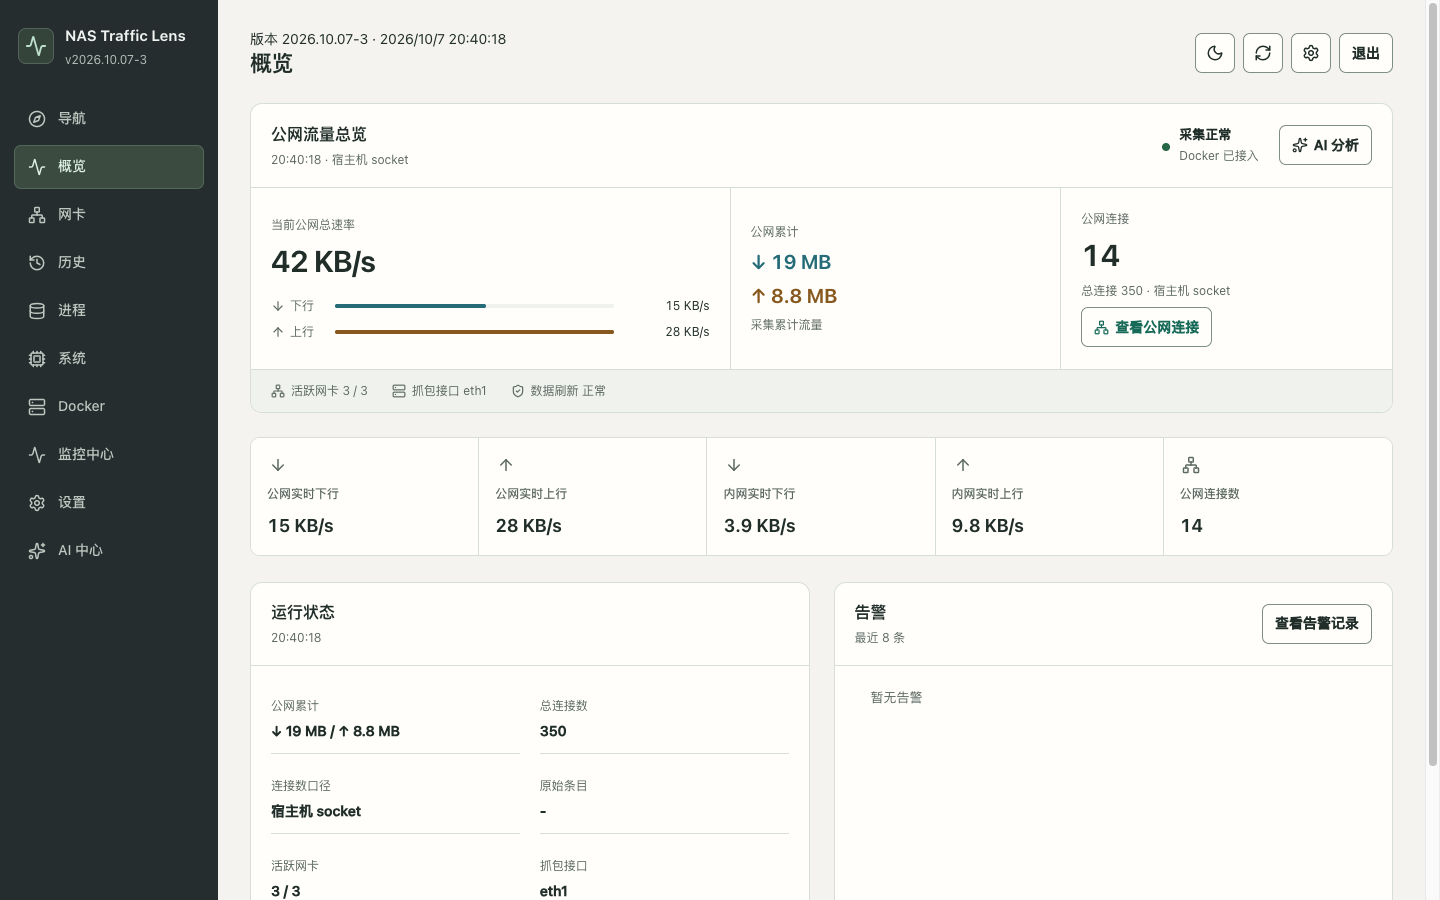
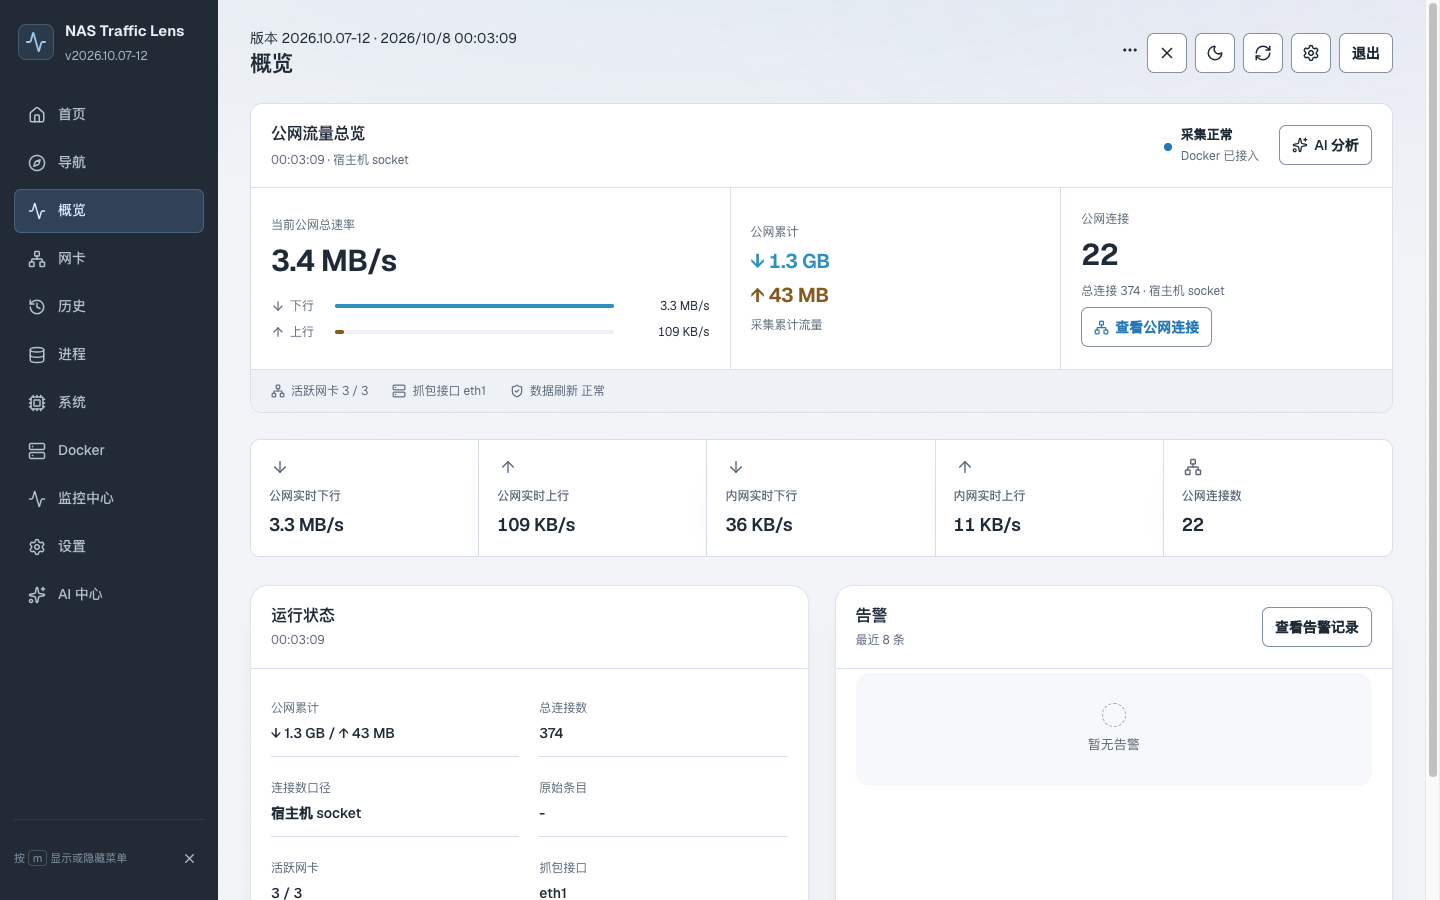
chore(desktop): release 0.5.0 with the new console UI and the ops agent
* 版本三处同步 0.5.0（tauri.conf.json、workspace Cargo.toml、Cargo.lock），
  `cargo metadata --locked` 一致，满足工作流的 tag/版本一致性校验。
* doc/desktop-release-notes.md 换成 0.5.0 说明：运维助手、首页门户与服务直达、
  3D 牌堆卡片、浅蓝配色、ARM 的 GPU/NPU/VPU 适配、设计审计细节，以及配套
  NAS 镜像 2026.10.07-12。
* README 重写开篇与界面预览：新增极空间/绿联双机实测说明、多 NAS 兼容文档链接、
  只读运维助手介绍，并换上新截图（门户、助手、加速器卡片与 VPU 明细、手机端门户）。

diff --git a/README.md b/README.md
@@ -1,8 +1,10 @@
 # NAS Traffic Lens / datatotal
 
-NAS Traffic Lens 是一个面向极空间、家庭 NAS 和 x86/ARM Linux 主机的轻量网络监控面板。它用于补齐 NAS 自带系统缺少的实时公网流量、累计公网流量、进程和端口归因、Docker 容器识别、告警通知等能力。
+NAS Traffic Lens 是一个面向家庭 NAS 的轻量网络监控面板：实时公网流量、进程与 Docker 归因、容器保护与告警通知，并内置一个**只读运维助手**——用一句话就能查"今天公网上传了多少流量""最近哪个进程上传最多""哪个容器在大量读写磁盘"。
 
-Windows / macOS 另有 **Traffic Lens 桌面预览版**：无需 Docker，可查看本机基础资源与网卡总流量、使用本机 AI 分析，也可保存并切换多台 NAS。每台 NAS 可选择客户端布局或网页布局，完整使用其 Docker、AI、监控和系统页面。各端新增服务导航，支持分组、搜索、图标与地址维护，Docker Web 端口可一键加入导航。桌面端支持从 GitHub 检查并安装签名更新。
+已在 **极空间 Z425（x86，i915 核显 + Intel NPU）** 与 **绿联 DXP4300 Plus（ARM，Mali GPU + RKNPU + VPU）** 上实机验证，同一镜像同时提供 `linux/amd64` 与 `linux/arm64`，通用 Linux 与飞牛 OS 使用通用模板即可。各平台的能力差异与部署步骤见 [多 NAS 兼容性说明](doc/nas-compat.md)。
+
+Windows / macOS 另有 **Traffic Lens 0.5.0 桌面预览版**：无需 Docker，可查看本机基础资源与网卡总流量、使用本机 AI 分析，也可保存并切换多台 NAS。每台 NAS 可选择客户端布局或网页布局，完整使用其 Docker、AI、监控和系统页面。各端新增服务导航，支持分组、搜索、图标与地址维护，Docker Web 端口可一键加入导航。桌面端支持从 GitHub 检查并安装签名更新。
 
 桌面版不包含本机公网归属、进程网络流量和传感器采集；完整能力与构建方法见 [桌面客户端使用与构建](doc/desktop-usage.md)。Mac Apple Silicon / Intel 和 Windows x64 安装包见 [桌面 Releases](https://github.com/isle24/datatotal/releases?q=desktop-v)；跨平台签名更新包由 [GitHub Actions](https://github.com/isle24/datatotal/actions/workflows/desktop-release.yml) 编译。NAS 导航需要更新 Docker 镜像，Compose 不需要新增环境变量或挂载。
 
@@ -16,17 +18,37 @@ Windows / macOS 另有 **Traffic Lens 桌面预览版**：无需 Docker，可查
 
 ## 界面预览
 
-2026.10.07 控制台改版：左侧固定导航、设置按功能区独立保存、可搜索的容器勾选列表、明暗主题，手机端改为下拉切换页面。截图取自实际运行 2026.10.07-3 的极空间 NAS。
+截图取自实际运行的极空间 NAS（NAS 镜像 2026.10.07-12）。
 
-| 桌面端 · 概览（浅色） | 桌面端 · 概览（暗色） |
+**首页门户**：居中品牌 + 一行实时状态 + 六个大入口卡片，顶部按钮默认隐藏、鼠标移入才出现；服务导航里的服务直接出现在首页，`/` 或 `⌘K` 搜索后回车直达。
+
+![首页门户](doc/screenshots/console-portal-light.png)
+
+**运维助手（只读 Agent）**：一句话提问，面板展示选用的只读工具、参数、耗时与 token 估算，结果渲染成小卡与排行条，原始 JSON 可折叠查看。
+
+![运维助手](doc/screenshots/console-agent-light.png)
+
+**流量总览**：公网/内网实时速率、累计流量、连接数与 Docker 概况。
+
+| 浅色 | 暗色 |
 | --- | --- |
-| ![桌面端概览浅色](doc/screenshots/console-overview-light.png) | ![桌面端概览暗色](doc/screenshots/console-overview-dark.png) |
-| **设置 · 常用设置**：按功能区保存，未保存修改不丢 | **设置 · 容器保护**：搜索勾选容器，逐个判断阈值 |
+| ![流量总览浅色](doc/screenshots/console-overview-light.png) | ![流量总览暗色](doc/screenshots/console-overview-dark.png) |
+
+**系统与加速器**：CPU/内存/磁盘/温度，以及 GPU、NPU、VPU 的实时利用率（ARM 机型通过 devfreq 与 `/proc/mpp_service` 读取）。
+
+| GPU / NPU / VPU 卡片 | 展开 VPU 的 13 个编解码核心 |
+| --- | --- |
+| ![加速器卡片](doc/screenshots/console-system-accel-light.png) | ![VPU 明细](doc/screenshots/console-system-vpu-light.png) |
+
+**设置**：按功能区独立保存，容器保护支持搜索勾选容器。
+
+| 常用设置 | 容器保护 |
+| --- | --- |
 | ![常用设置](doc/screenshots/console-settings-light.png) | ![容器保护](doc/screenshots/console-protection-picker-light.png) |
 
 手机端（浏览器访问 NAS）：
 
-![手机端概览](doc/screenshots/console-mobile-overview-light.png)
+![手机端门户](doc/screenshots/console-mobile-portal-light.png)
 
 ## 主要功能
 
@@ -42,13 +64,16 @@ Windows / macOS 另有 **Traffic Lens 桌面预览版**：无需 Docker，可查
 - 监控中心展示上传速率、连接数、每日流量等规则的运行状态。
 - 通知渠道模块，支持 Webhook、IYUU、MeoW，并支持消息模板变量。
 - 历史统计折线图，支持今日、本周、本月等时间范围。
-- 系统状态页面，展示 CPU、内存、磁盘、温度风扇，以及 Intel 核显与 NPU 的实时利用率（核显按引擎细分，NPU 含频率和常驻显存）。
+- 系统状态页面，展示 CPU、内存、磁盘、温度风扇与加速器利用率：Intel 机型读 i915 PMU 与 intel_vpu，ARM 机型（绿联云等）读 devfreq 的 Mali GPU / RKNPU 负载与 `/proc/mpp_service/load` 的 13 个 VPU 核心。
+- 首页门户：居中品牌与实时状态、六个入口卡片（含 Docker 容器数）、服务直达卡片与搜索，顶部按钮默认隐藏。
+- 运维助手（只读 Agent）：自然语言 → 计划 → 白名单只读工具 → 结果解读，最多 2 次模型调用；10 个工具覆盖流量概览/历史/进程排行/连接明细、系统状态、容器列表/单容器/容器资源排行、最近告警、配置概况；密钥脱敏、结果裁剪、每次提问写入审计表并统计当日用量。
 - AI 中心支持 OpenAI、Claude、DeepSeek、Kimi、Qwen、MiniMax 和自定义接口的按需分析与对话；首页、历史、监控中心都有快捷分析入口。
 - AI 中心包含“设置助手”：可以用自然语言同时调整运行参数、监控规则、通知模板非敏感字段、容器保护、Docker 备注/内置图标和 AI 偏好；AI 先生成差异预览，点击一次确认后才写入 SQLite。
 - AI 设置助手不会读取或修改密码、API Key、Webhook/IYUU/MeoW Token、Docker socket、数据库/日志路径，也不会执行 SQL、宿主命令或 Docker 命令。
 - 支持访问密码、登录失败限制、SQLite 持久化、日志目录映射。
 - 上传阈值可在设置页使用 `MB` / `GB` / `MB/s` / `GB/s` 编辑；后端仍以字节保存，旧值 `53687091200` 会自动显示为 `50 GB`。
 - 上传告警会保存触发值、阈值、Top 网卡、可见进程、活跃公网连接、Docker 归属和每个通知渠道的投递结果。
+- 手风琴卡片为层叠 3D 牌堆：滚动视差、悬停浮起、点击展开置顶，Docker / 传感器 / 规则 / 设置编辑器全部接入。
 - 监控中心支持按日期回溯上传异常；AI 回复支持安全 Markdown，`Enter` 发送、`Shift+Enter` 换行。
 
 ## 适用环境

diff --git a/doc/desktop-release-notes.md b/doc/desktop-release-notes.md
@@ -1,12 +1,12 @@
-Traffic Lens 0.4.0 桌面预览版
+Traffic Lens 0.5.0 桌面预览版
 
-- 控制台 UI 与交互改版：左侧固定导航、统一层级与间距、明暗主题，去掉装饰网格和渐变；手机端改为下拉切换页面。
-- 设置按功能区（常用设置、流量告警、容器保护、通知渠道、AI 配置、维护与高级）独立保存。切换页面或保存其他分区不再丢失未保存的修改，保存失败会保留输入。
-- 容器保护规则改为可搜索的容器单选/多选列表，支持全选当前结果、清除选择和已选摘要，不再手填容器名称或 ID；每个容器分别判断 CPU、内存和磁盘 I/O 阈值。
-- 通知渠道明确“全部启用 / 指定渠道 / 不通知”三种模式；指定渠道但未选择时不再默认全部启用。
-- 导航编辑器改用页面内确认，避免系统弹窗打断键盘操作；连接筛选、日期校验、空数据与无匹配状态更明确。
-- 连接 NAS 后，容器保护达到阈值即重启该容器，重启次数不限，冷却结束后继续监控；每日上传告警按 Asia/Shanghai 零点计算（需要 NAS 服务端 2026.10.07-2 及以上）。
-- 配套 NAS 镜像：`isle204/nas-traffic-lens:2026.10.07-3`，Docker Hub 同时提供 `linux/amd64` 与 `linux/arm64`。
+- 新增运维助手（只读 Agent）：用一句话问"今天公网上传了多少流量""最近哪个进程上传最多""哪个容器在大量读写磁盘"，面板会展示选用的只读工具、参数、耗时与 token 估算，并把结果渲染成小卡与排行条，原始 JSON 可折叠查看。所有工具都是只读，不会修改配置或容器。
+- 首页改为门户：居中品牌 + 一行实时状态 + 六个大入口卡片 + 一行次级入口，顶部按钮默认隐藏，鼠标移入才出现；导航、进程、设置等页面恢复常驻菜单。
+- 服务直达：NAS 端「服务导航」里的服务会直接出现在首页，支持搜索（`/` 或 `⌘K` 聚焦，回车直达第一个命中）。
+- 手风琴卡片改为层叠 3D 牌堆：滚动视差、悬停浮起、点击展开置顶；Docker、系统传感器、GPU/NPU/VPU、监控规则与设置编辑器全部接入。
+- 全局配色统一为浅蓝，状态色不再使用绿色；系统页新增 GPU / NPU / VPU 卡片，ARM 机型（绿联云等）通过 devfreq 与 `/proc/mpp_service` 读取利用率。
+- 界面细节按设计审计重做：自托管 Geist 字体与等宽数字、极淡噪点与环境光晕、1480px 内容宽度、按下反馈与焦点环、合成空态与骨架屏。
+- 配套 NAS 镜像：`isle204/nas-traffic-lens:2026.10.07-12`，Docker Hub 同时提供 `linux/amd64` 与 `linux/arm64`；支持极空间（ZOS）、绿联云（UGOS Pro，ARM）与通用 Linux / 飞牛 OS。
 
 下载：macOS Apple Silicon 用 arm64 DMG，Intel 用 x64 DMG，Windows 用 x64 setup.exe。
 
